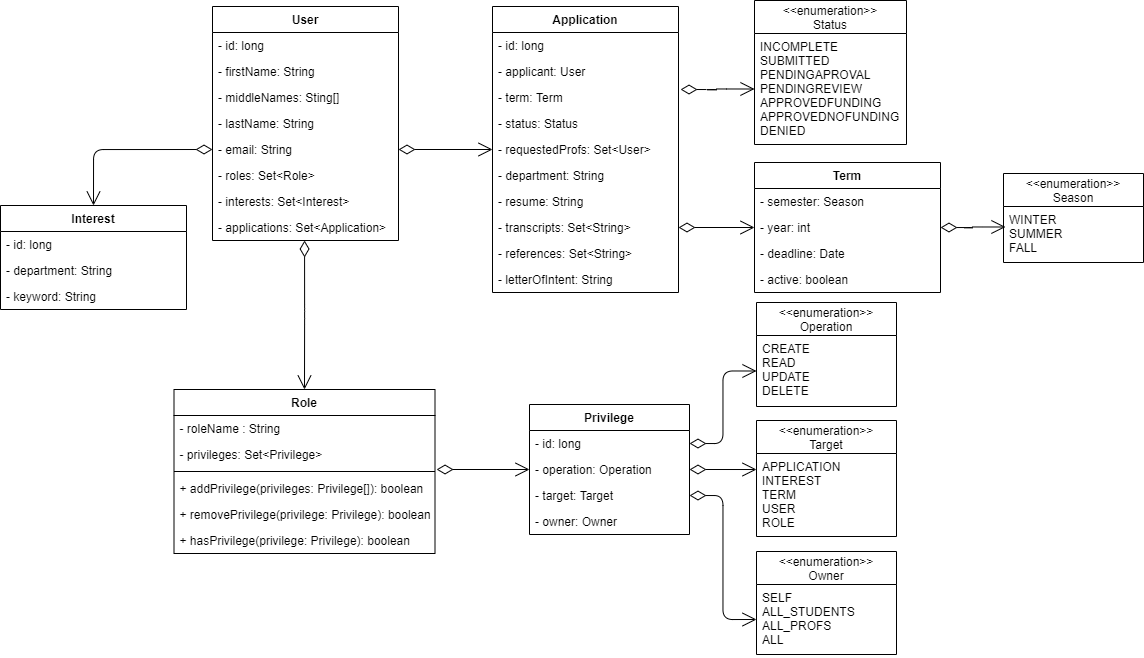
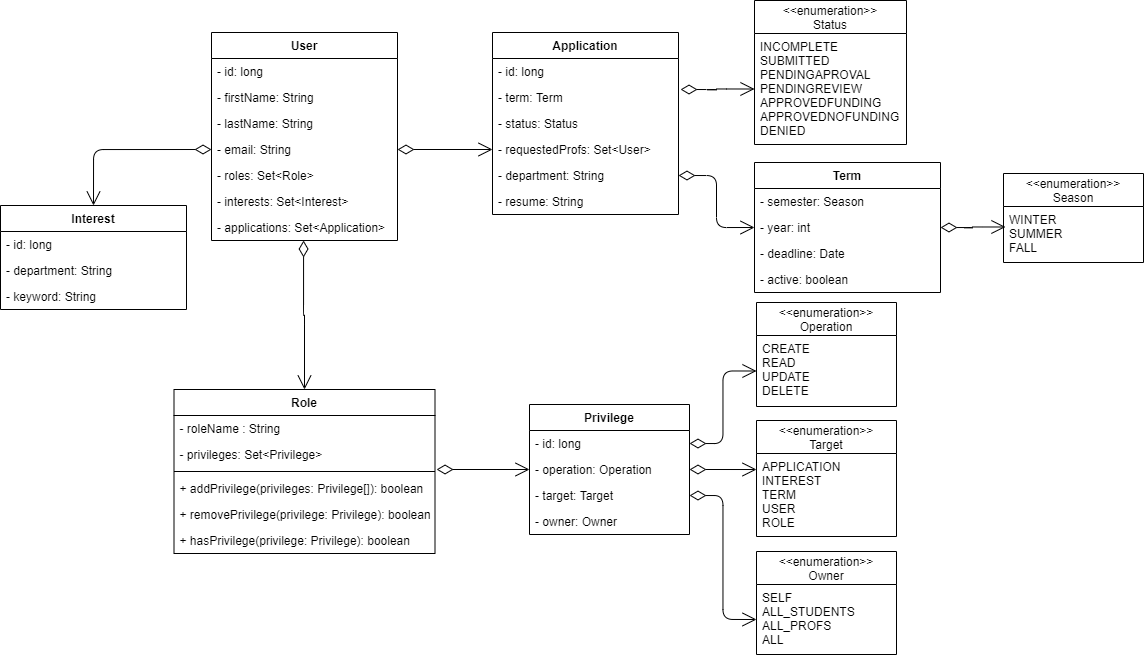
upadte read me and diagrams for end of project

diff --git a/README.md b/README.md
@@ -18,7 +18,10 @@ Kevin Sun
 The project is broken up into weekly sprints, each with their own Kanban board. These can be viewed on the repository's "Projects" tab, here: https://github.com/CameronRushton/Graduate-Admission-System/projects
 
 ## Project Status
-The project is in its [fifth and final sprint](https://github.com/CameronRushton/Graduate-Admission-System/projects/5). With lots of backend functionality now, the remaining web pages can be made for the system.
+The project is completed for the grading purposes of SYSC4806 as of April 3, 2020. There may be future updates by group members for additional functionality.
+
+## Instructions to Run Locally
+To run the application locally, follow the steps on the [getting started page of the project wiki](https://github.com/CameronRushton/Graduate-Admission-System/wiki/Developer-setup)
 
 ## Login Details
 The system has three different roles for different system views: these are student, prof, and admin
